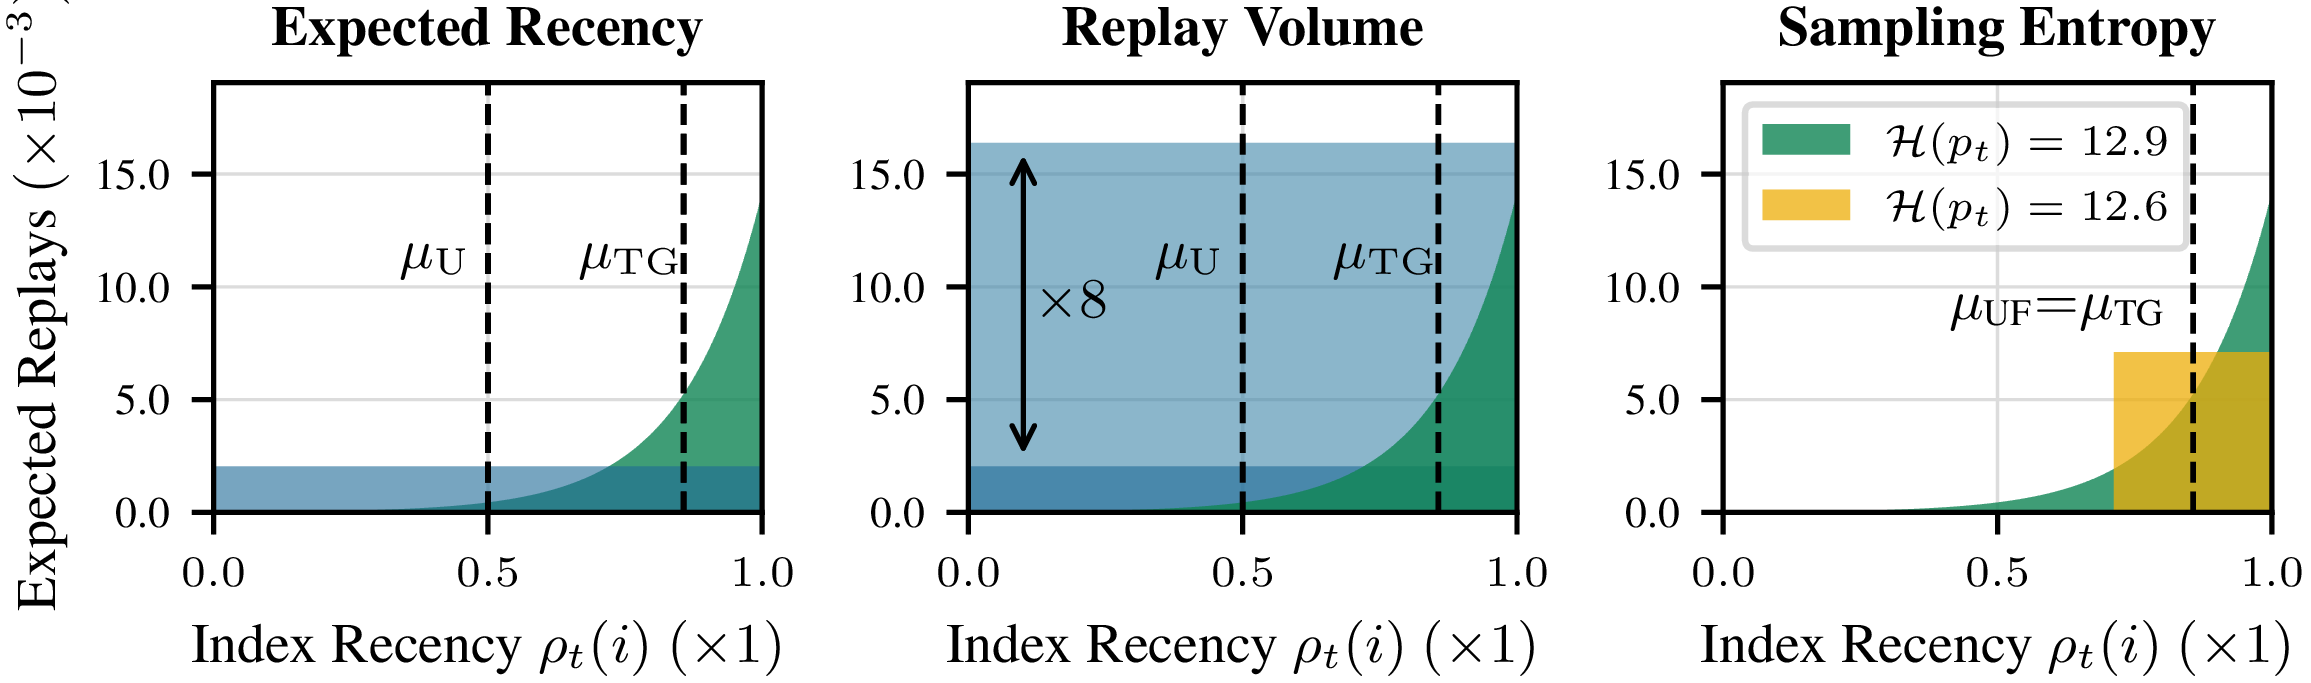
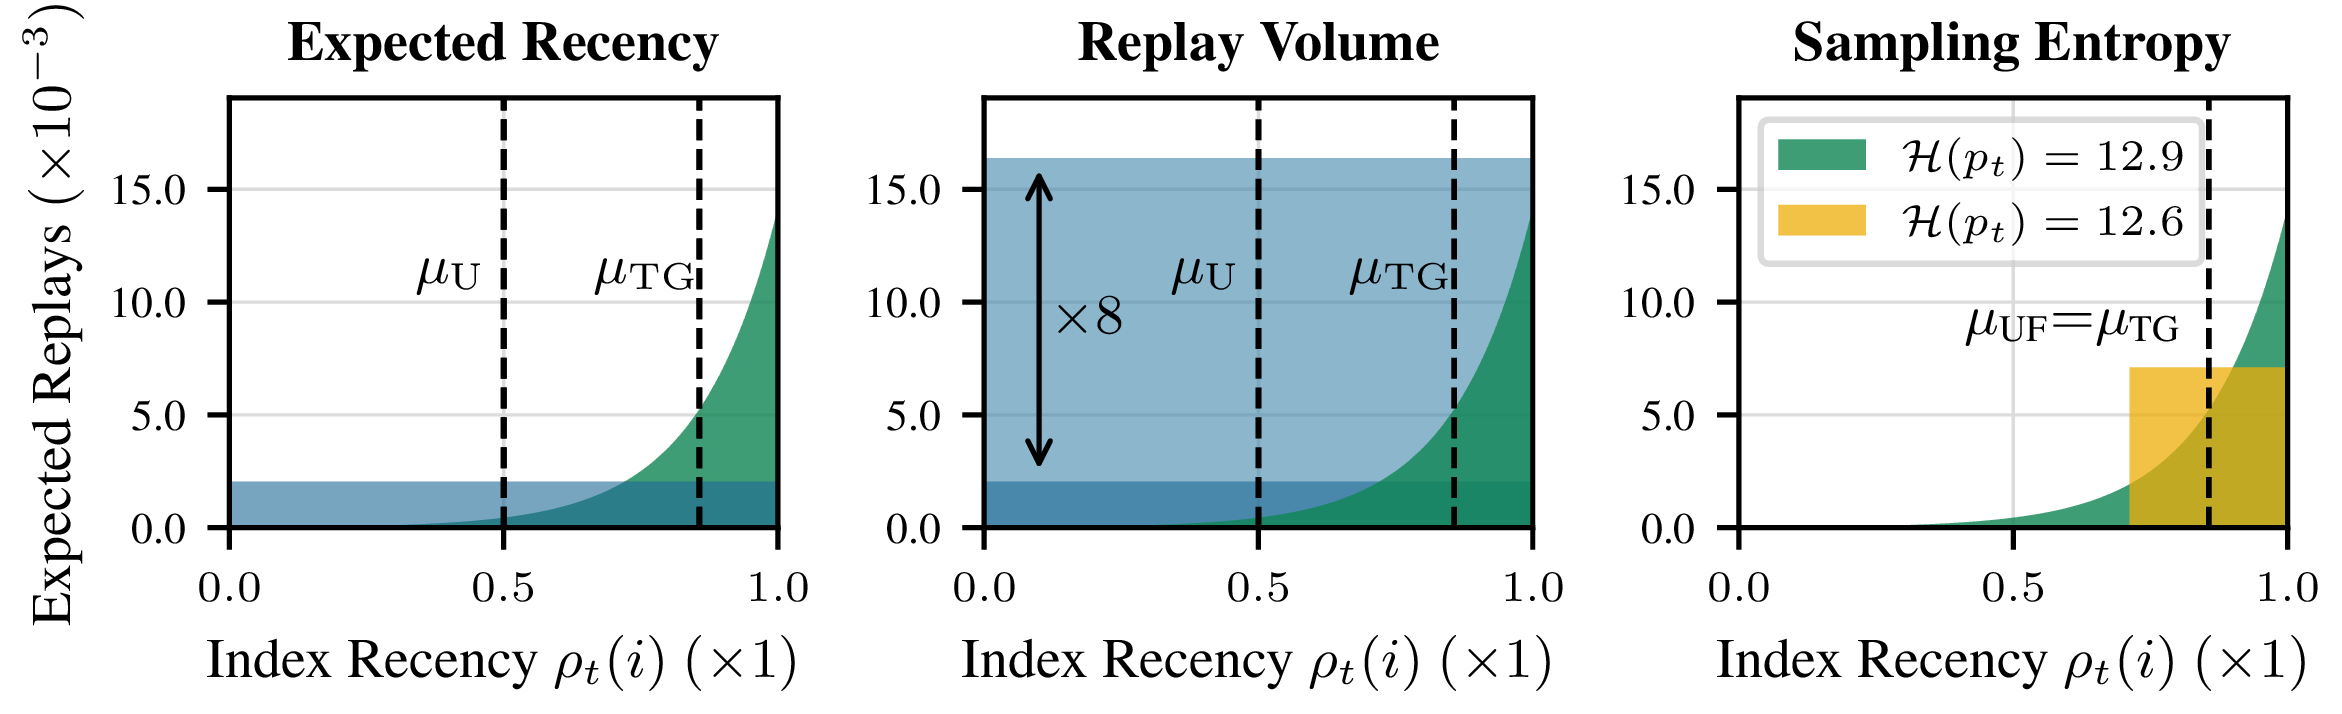
Update sampling figure, entropy table and front-page caption

diff --git a/index.html b/index.html
@@ -68,7 +68,7 @@
     <div class="container is-max-desktop">
       <h2 class="section-title" id="overview-title">Performance and runtime trade-offs</h2>
       <p class="section-lead">Recency-biased replay improves sample efficiency at negligible cost</p>
-      <figure class="paper-figure"><a class="figure-link" href="static/figures/frontpage.png" data-zoom aria-label="Enlarge: Relative AUC gains over uniform replay for single-task FastTD3, multi-task BRC, and wall-clock time overhead on HumanoidBench."><img src="static/figures/frontpage.png" alt="Relative AUC gains over uniform replay for single-task FastTD3, multi-task BRC, and wall-clock time overhead on HumanoidBench." loading="lazy" decoding="async"><span class="zoom-label" aria-hidden="true">↗ Enlarge figure</span></a><figcaption><strong>Performance and runtime trade-offs on HumanoidBench.</strong> Truncated Geometric replay gives consistent sample-efficiency gains over uniform sampling with minimal overhead, while PER is much slower.<details class="caption-more"><summary>Read more</summary><p>Relative sample efficiency gains measured as area under the learning curve (AUC) for single-task (left) and multi-task BRC (middle), and wall-clock time difference aggregated across both settings (right), compared to uniform sampling. Error bars show 95% stratified bootstrap CI. We report results in large-scale parallel FastTD3 and multi-task BRC because they feature relatively low experience reuse per transition, where non-uniform replay is expected to have the greatest impact.</p></details></figcaption></figure>
+      <figure class="paper-figure"><a class="figure-link" href="static/figures/frontpage.png" data-zoom aria-label="Enlarge: Relative AUC gains over uniform replay for single-task FastTD3, multi-task BRC, and wall-clock time overhead on HumanoidBench."><img src="static/figures/frontpage.png" alt="Relative AUC gains over uniform replay for single-task FastTD3, multi-task BRC, and wall-clock time overhead on HumanoidBench." loading="lazy" decoding="async"><span class="zoom-label" aria-hidden="true">↗ Enlarge figure</span></a><figcaption><strong>Performance and runtime trade-offs on HumanoidBench.</strong> Truncated Geometric replay gives consistent sample-efficiency gains over uniform sampling with minimal overhead, while PER is much slower.<details class="caption-more"><summary>Read more</summary><p>Relative sample efficiency gains measured as area under the learning curve (AUC) for large-scale parallel simulation FastTD3 (left) and multi-task BRC (middle), and wall-clock time difference aggregated across both settings (right), compared to uniform sampling. Error bars show 95% stratified bootstrap CI. We report results in large-scale parallel FastTD3 and multi-task BRC because they feature relatively low experience reuse per transition, where non-uniform replay is expected to have the greatest impact.</p></details></figcaption></figure>
     </div>
   </section>
 
